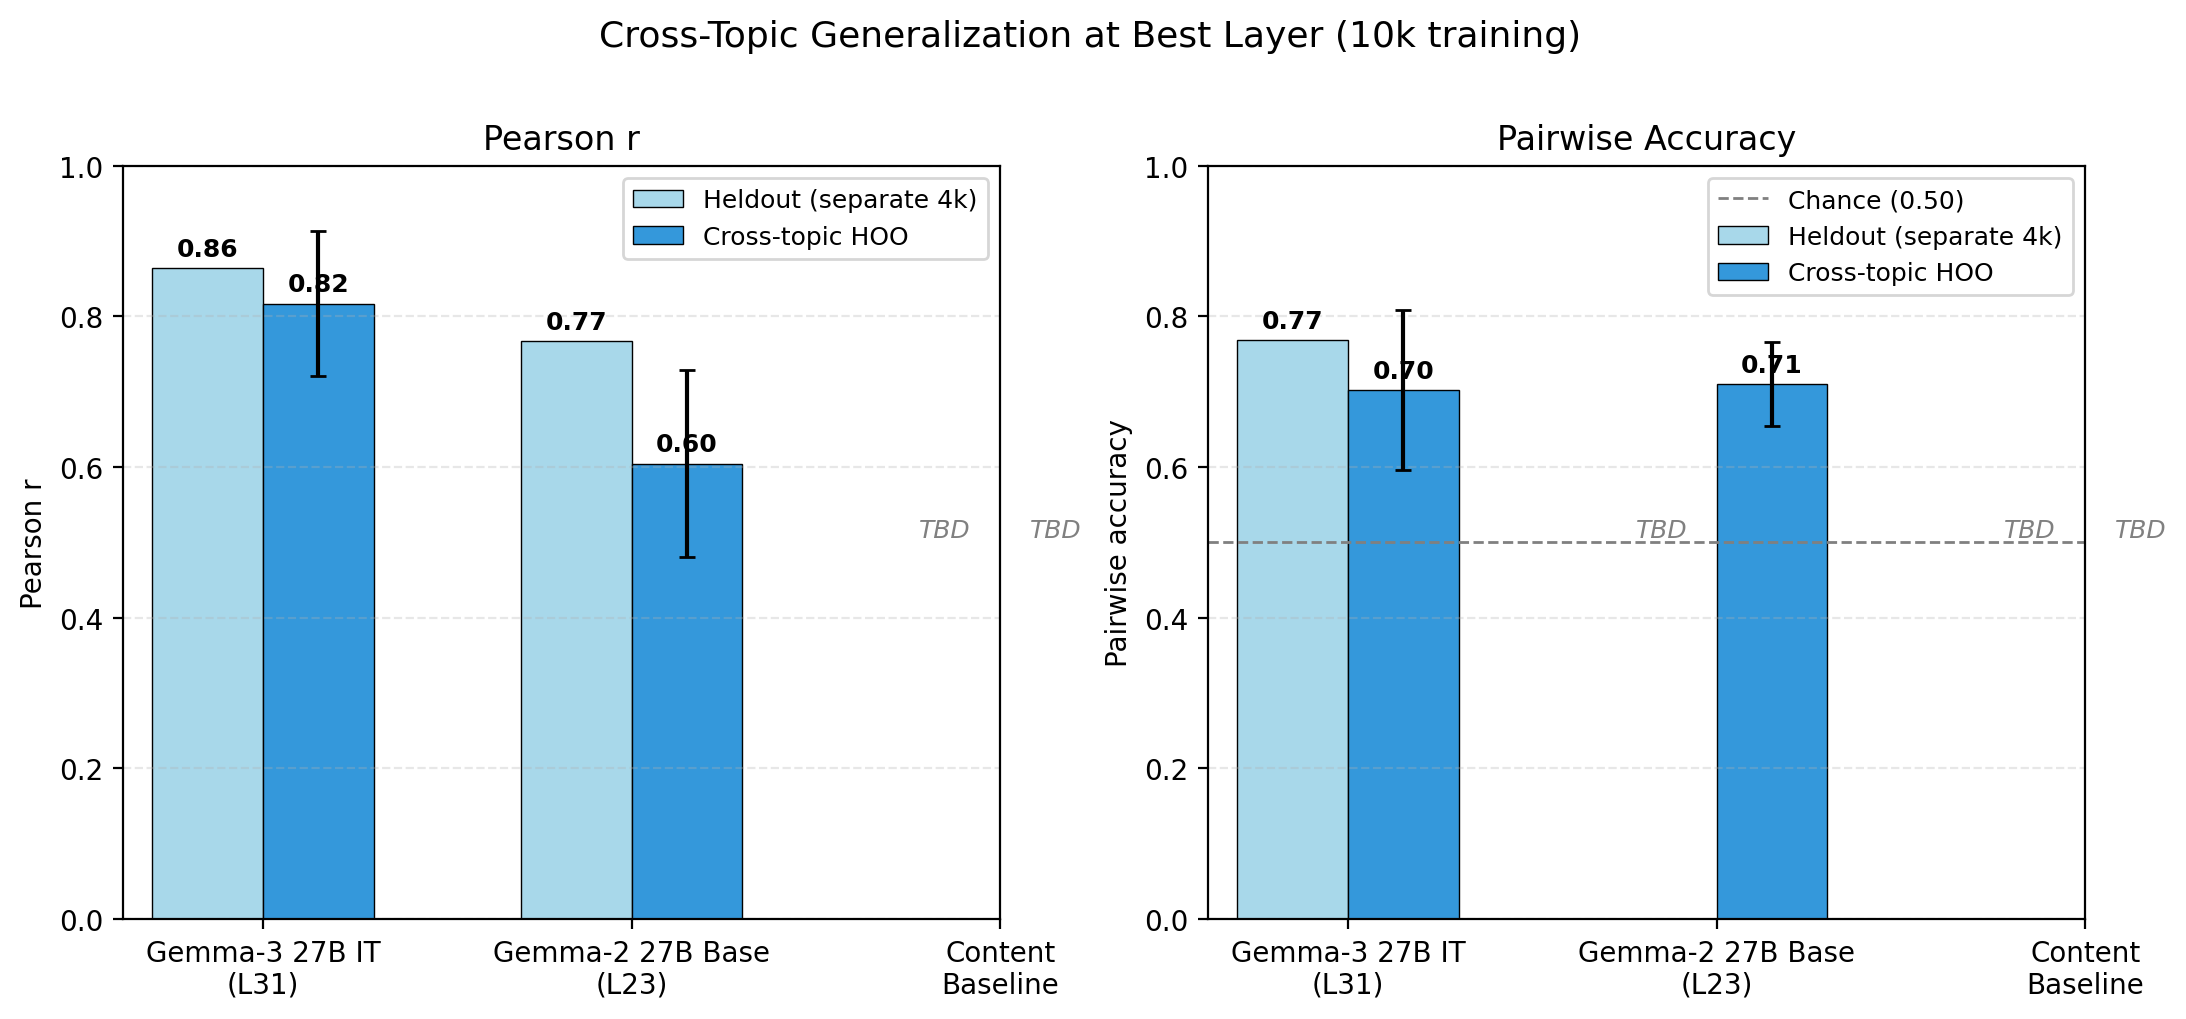
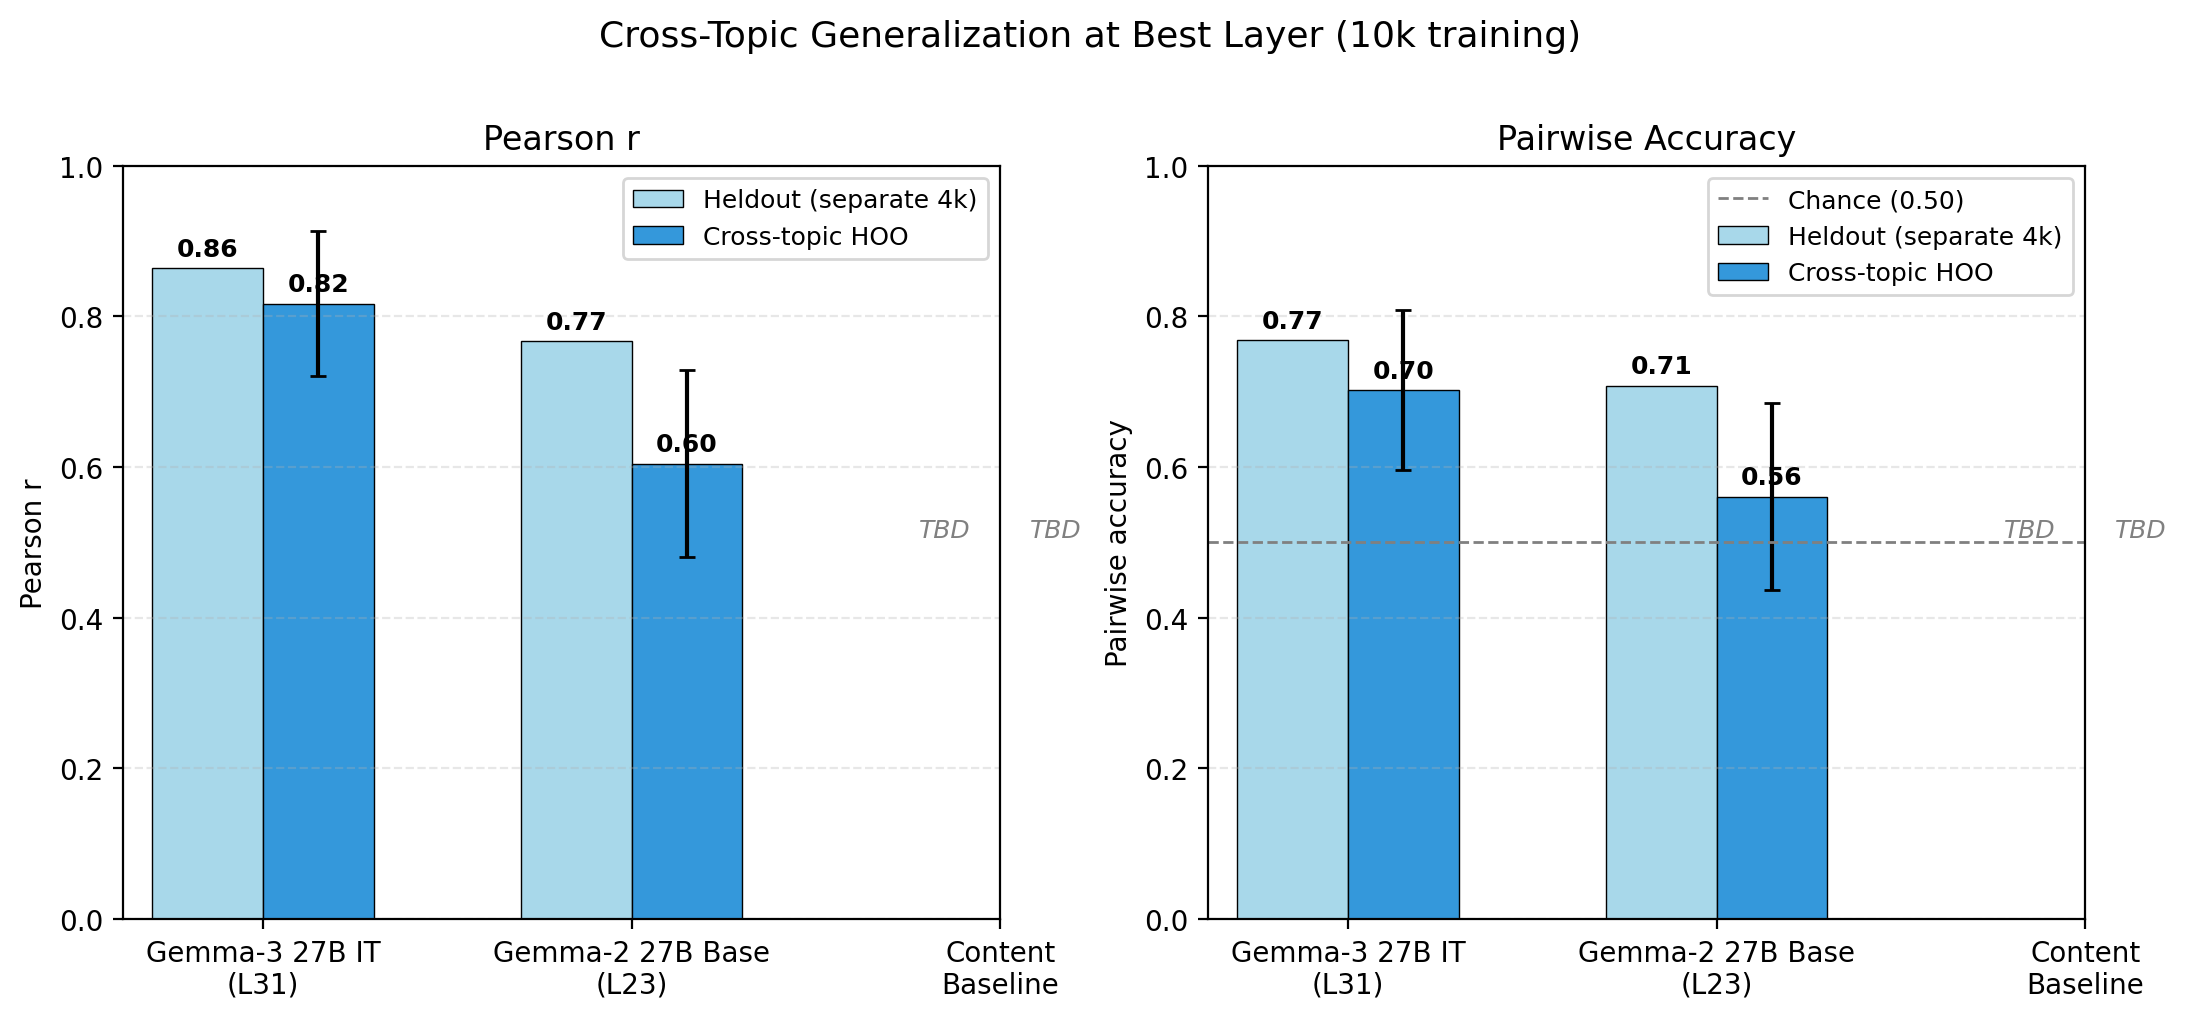
Add real pairwise accuracy for Gemma-2 (heldout=0.708, HOO mean=0.561)
Both heldout and HOO accuracy now computed against real pairwise choices,
comparable to Gemma-3. Heldout: 0.708 vs Gemma-3 0.768. HOO mean: 0.561
vs Gemma-3 ~0.69 (both noisy due to tiny folds for 'other'/'summarization').

Changed region(s): [[0.7155, 0.3346, 0.8399, 0.9127]]

diff --git a/scripts/plot_cross_topic_lw.py b/scripts/plot_cross_topic_lw.py
@@ -21,11 +21,7 @@ ST_HOO = Path("results/probes/st_10k_hoo_topic/hoo_summary.json")
 GEMMA3_HELDOUT_R = 0.864    # from gemma3_10k_heldout_std_raw, L31
 GEMMA3_HELDOUT_ACC = 0.768  # from gemma3_10k_heldout_std_raw, L31
 GEMMA2_HELDOUT_R = 0.767    # from gemma2_10k_heldout_std_raw, L23
-# NOTE: Gemma-2 pairwise accuracy not computed — measurements.yaml (real pairwise choices) is
-# gitignored and only available on the server. Do NOT use Thurstonian scores as ground truth
-# for accuracy: that inflates the number and is not comparable to Gemma-3's hoo_acc, which
-# is computed against real pairwise choices. Rerun HOO on server to get real hoo_acc.
-GEMMA2_HELDOUT_ACC = None   # TBD: needs measurements.yaml from server
+GEMMA2_HELDOUT_ACC = 0.708  # computed against real pairwise choices (4k eval set)
 ST_HELDOUT_R = None          # TBD
 ST_HELDOUT_ACC = None        # TBD
 
